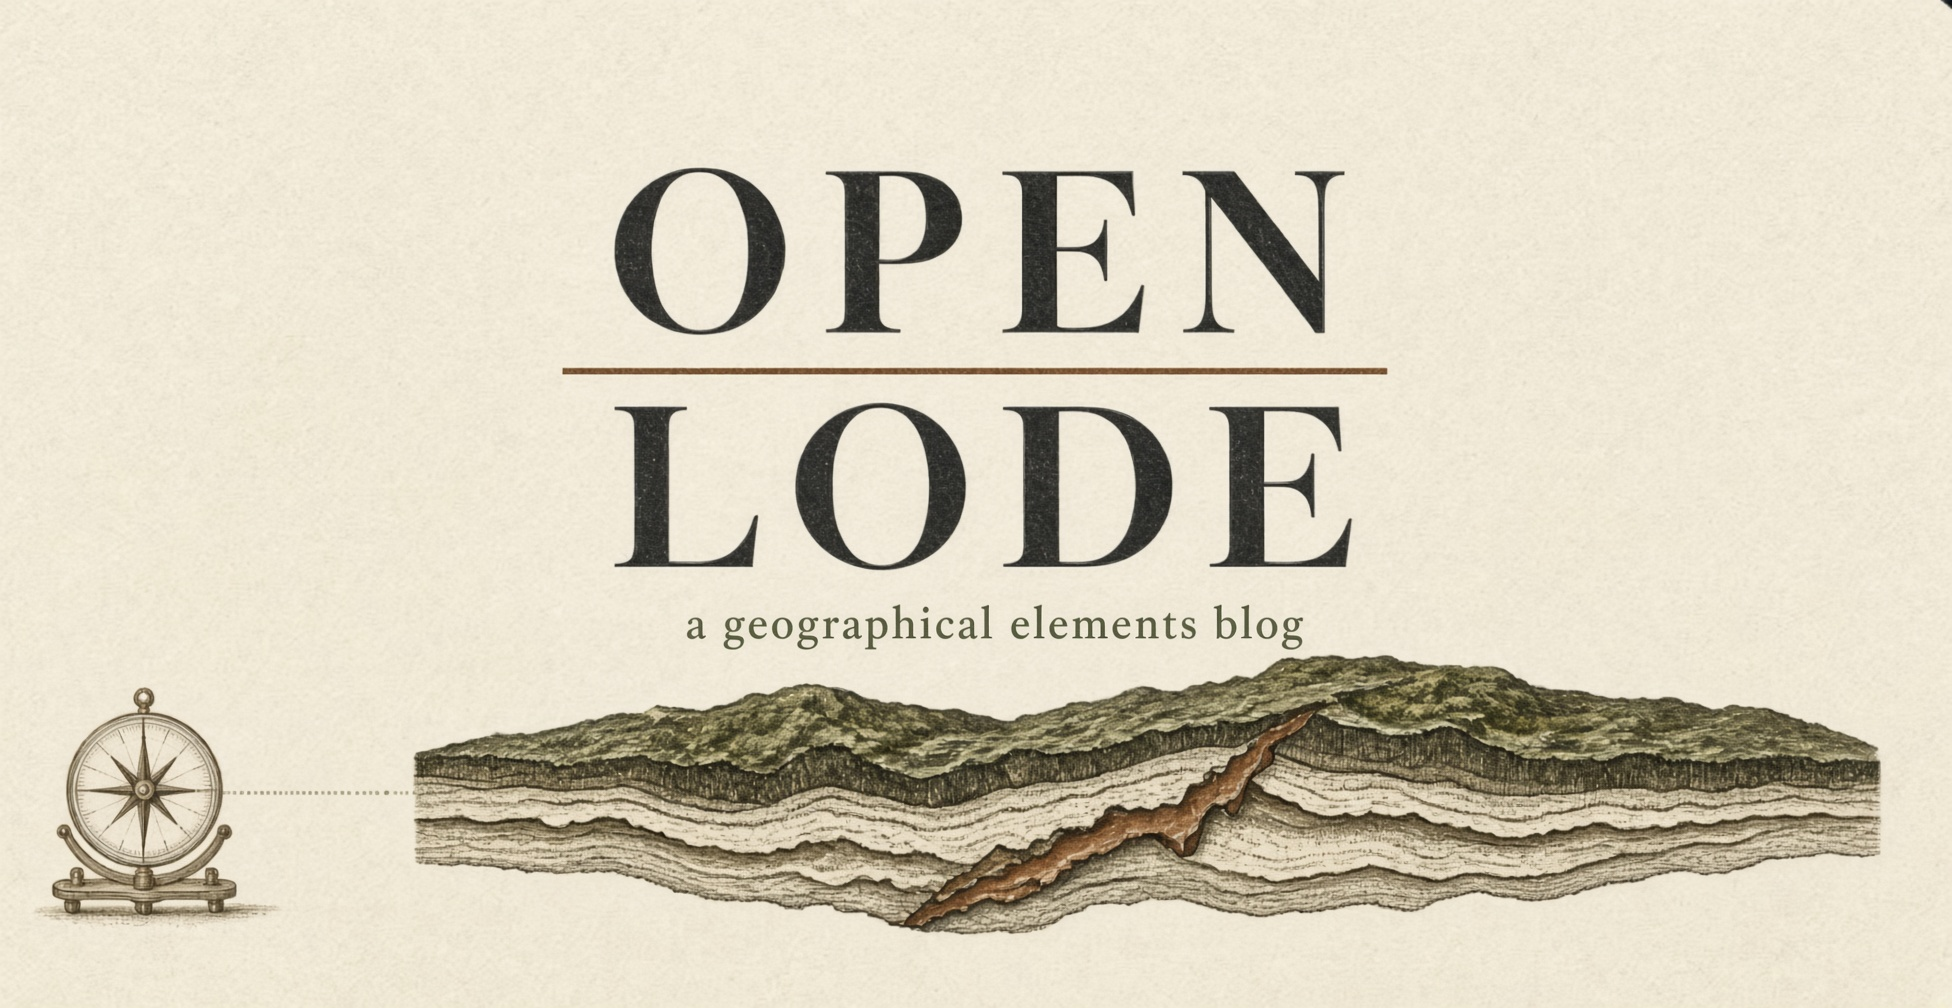
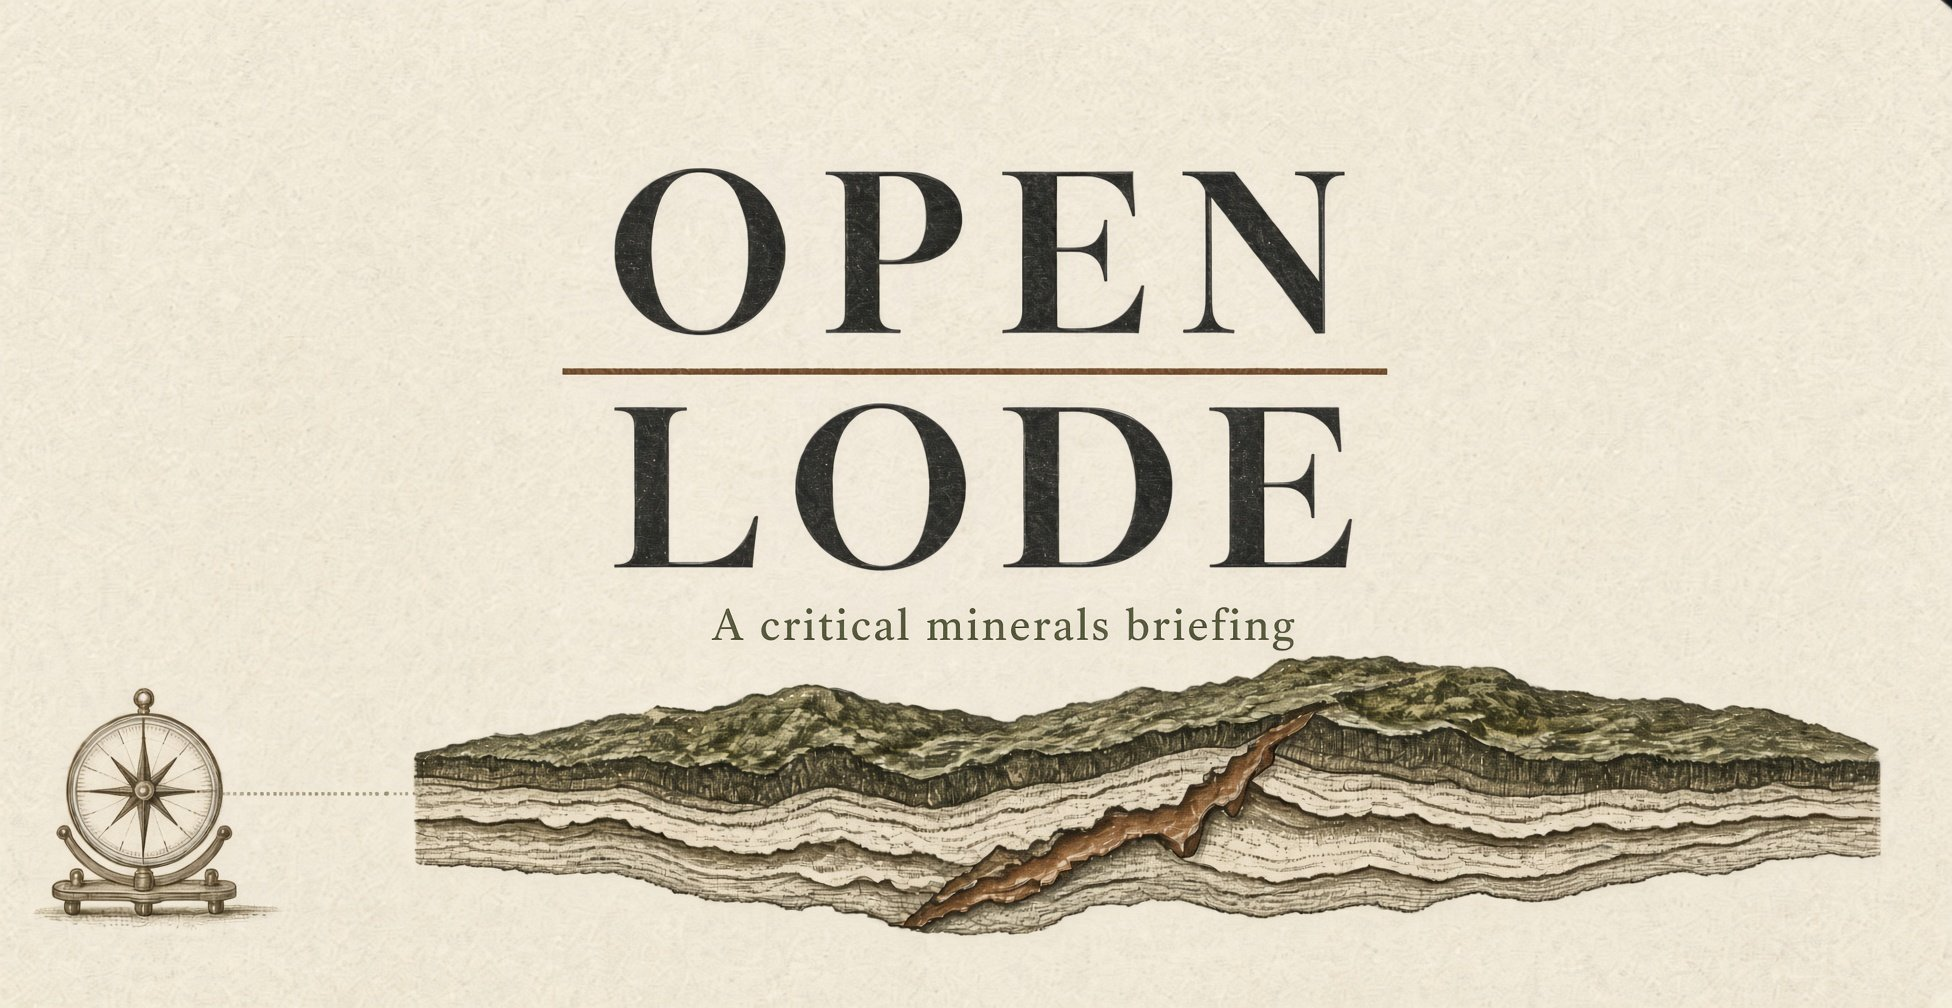
Name the header for what the book is: a critical minerals briefing.

diff --git a/src/routes/index.tsx b/src/routes/index.tsx
@@ -67,7 +67,7 @@ function Home() {
         <h1 className="m-0">
           <img
             src="/blog-header-logo.jpg"
-            alt="Open Lode — a geographical elements blog"
+            alt="Open Lode — a critical minerals briefing"
             className="w-full rounded-2xl"
           />
         </h1>
